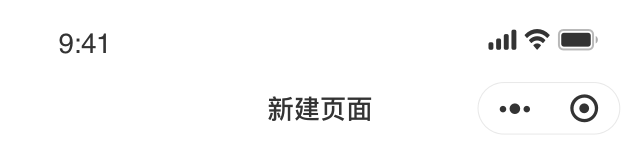
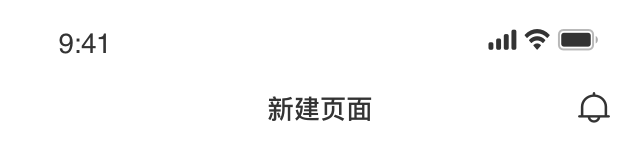
修改显示

Changed region(s): [[0.875, 0.6133, 0.9688, 0.8267], [0.7812, 0.6933, 0.8438, 0.7733]]

diff --git a/src/components/page-settings/index.vue b/src/components/page-settings/index.vue
@@ -5,7 +5,7 @@
                 <img class="img" :style="`Filter: brightness(${new_style.function_buttons_type == 'black' ? 0 : 100})`" src="@/assets/images/layout/main/main-top.png" />
             </div>
             <div class="model-head tc re mlr-12 mt-6">
-                <div v-if="['1', '2', '3'].includes(form.theme)" class="flex align-c jc-c h gap-16" :style="[{ 'justify-content': form?.indicator_location || 'center', 'padding-right': form.indicator_location == 'flex-end' || form.theme == 3 ? '95px' : '0' }, text_style]">
+                <div v-if="['1', '2', '3'].includes(form.theme)" class="flex align-c jc-c h gap-16" :style="[{ 'justify-content': form?.indicator_location || 'center' }, text_style]">
                     <template v-if="['2', '3'].includes(form.theme)">
                         <div class="logo-outer-style"><image-empty v-model="form.logo[0]" class="logo-style" error-img-style="width:2rem;height:2rem;"></image-empty></div>
                     </template>
@@ -22,13 +22,10 @@
                         ><icon v-if="form.is_arrows_show == '1'" name="arrow-right" size="12" color="0"></icon>
                     </div>
                     <template v-if="['5'].includes(form.theme)">
-                        <div class="flex-1" style="padding-right: 95px">
+                        <div class="flex-1">
                             <model-search :value="pageData.com_data" :is-page-settings="true"></model-search>
                         </div>
                     </template>
-                </div>
-                <div class="model-head-icon">
-                    <img class="function-icon" :src="url_computer(new_style.function_buttons_type == 'black' ? 'function-icon-black' : 'function-icon-white')" />
                 </div>
             </div>
         </div>
@@ -65,10 +62,7 @@ const roll_style = computed(() => {
     }
     return style;
 });
-const url_computer = (name: string) => {
-    const new_url = ref(new URL(`../../assets/images/layout/main/${name}.png`, import.meta.url).href).value;
-    return new_url;
-};
+
 const text_style = computed(() => `font-weight:${new_style.value.header_background_title_typeface}; font-size: ${new_style.value.header_background_title_size}px; color: ${new_style.value.header_background_title_color};`);
 </script>
 <style lang="scss" scoped>

diff --git a/src/views/layout/components/main/default/goods-tabs.ts b/src/views/layout/components/main/default/goods-tabs.ts
@@ -12,6 +12,7 @@ interface articleTabsList {
     order_by_type: string;
     order_by_rule: string;
     data_list: [];
+    data_auto_list: [];
 }
 interface DefaultProductList {
     content: {
@@ -75,10 +76,10 @@ const defaultProductList: DefaultProductList = {
         theme: '0',
         carousel_col: 3,
         tabs_list: [
-            { id: '1', title: '热门推荐', img: [], desc: '简介', data_type: '0', category_ids: [], brand_ids: [], data_ids: [], number: 4, order_by_type: '0', order_by_rule: '0', data_list: [] },
-            { id: '2', title: '测试一', img: [], desc: '简介', data_type: '0', category_ids: [], brand_ids: [], data_ids: [], number: 4, order_by_type: '0', order_by_rule: '0', data_list: [] },
-            { id: '3', title: '测试二', img: [], desc: '简介', data_type: '0', category_ids: [], brand_ids: [], data_ids: [], number: 4, order_by_type: '0', order_by_rule: '0', data_list: [] },
-            { id: '4', title: '测试三', img: [], desc: '简介', data_type: '0', category_ids: [], brand_ids: [], data_ids: [], number: 4, order_by_type: '0', order_by_rule: '0', data_list: [] },
+            { id: '1', title: '热门推荐', img: [], desc: '简介', data_type: '0', category_ids: [], brand_ids: [], data_ids: [], number: 4, order_by_type: '0', order_by_rule: '0', data_list: [], data_auto_list: [] },
+            { id: '2', title: '测试一', img: [], desc: '简介', data_type: '0', category_ids: [], brand_ids: [], data_ids: [], number: 4, order_by_type: '0', order_by_rule: '0', data_list: [], data_auto_list: [] },
+            { id: '3', title: '测试二', img: [], desc: '简介', data_type: '0', category_ids: [], brand_ids: [], data_ids: [], number: 4, order_by_type: '0', order_by_rule: '0', data_list: [], data_auto_list: [] },
+            { id: '4', title: '测试三', img: [], desc: '简介', data_type: '0', category_ids: [], brand_ids: [], data_ids: [], number: 4, order_by_type: '0', order_by_rule: '0', data_list: [], data_auto_list: [] },
         ],
         is_show: ['title', 'plugins_view_icon', 'price', 'sales_count', 'original_price'],
         is_shop_show: '1',

diff --git a/src/views/layout/index.vue b/src/views/layout/index.vue
@@ -187,18 +187,18 @@ const save_formmat_form_data = (data: diy_data_item, close: boolean = false, is_
     const clone_form = cloneDeep(data);
     clone_form.header.show_tabs = '1';
     clone_form.footer.show_tabs = '0';
-    // const new_array = ['goods-list', 'goods-tabs', 'article-list', 'article-tabs', 'coupon'];
+    const new_array = ['goods-list', 'goods-tabs', 'article-list', 'article-tabs', 'coupon'];
     clone_form.diy_data = clone_form.diy_data.map((item: any) => {
-        // if (new_array.includes(item.key)) {
-        //     item.com_data.content.data_ids = item.com_data.content.data_list.map((item: any) => item.data.id).join(',') || '';
-        //     item.com_data.content.data_list = [];
-        //     item.com_data.content.data_auto_list = [];
-        // } else if (item.key == 'data-magic') {
-        //     item.com_data.content.data_magic_list.map((item1: any) => {
-        //         item1.goods_ids = item.goods_list.map((item2: any) => item2.data.id).join(',') || '';
-        //         item1.goods_list = [];
-        //     });
-        // }
+        if (new_array.includes(item.key)) {
+            item.com_data.content.data_ids = item.com_data.content.data_list.map((item: any) => item.data.id).join(',') || '';
+            // item.com_data.content.data_list = [];
+            // item.com_data.content.data_auto_list = [];
+        } else if (item.key == 'data-magic') {
+            item.com_data.content.data_magic_list.map((item1: any) => {
+                item1.goods_ids = item.goods_list.map((item2: any) => item2.data.id).join(',') || '';
+                // item1.goods_list = [];
+            });
+        }
         return {
             ...item,
             show_tabs: '0',

diff --git a/src/components/page-settings/page-setting.vue b/src/components/page-settings/page-setting.vue
@@ -56,11 +56,36 @@ const default_data = {
 }
 const default_config = {
     style: {
-        theme_1: {},
-        theme_2: {},
-        theme_3: {},
-        theme_4: {},
-        theme_5: {},
+        theme_1: {
+            content: {
+                indicator_location: 'center',
+            },
+            style: {}
+        },
+        theme_2: {
+            content: {
+                indicator_location: 'flex-start',
+            },
+            style: {}
+        },
+        theme_3: {
+            content: {
+                indicator_location: 'flex-start',
+            },
+            style: {}
+        },
+        theme_4: {
+            content: {
+                indicator_location: 'flex-start',
+            },
+            style: {}
+        },
+        theme_5: {
+            content: {
+                indicator_location: 'flex-start',
+            },
+            style: {}
+        },
     },
 };
 const form = ref(props.value);

diff --git a/src/components/model-goods-tabs/index.vue b/src/components/model-goods-tabs/index.vue
@@ -32,7 +32,8 @@ watch(tabs_list.value, (val) => {
     new_data.content.order_by_type = new_data.content.tabs_list[0].order_by_type;
     new_data.content.order_by_rule = new_data.content.tabs_list[0].order_by_rule;
     new_data.content.data_list = new_data.content.tabs_list[0].data_list;
-    
+    new_data.content.data_auto_list = new_data.content.tabs_list[0].data_auto_list;
+
     tabs_list.value = new_data;
     // 公共样式
     style_container.value += common_styles_computer(new_style.common_style);

diff --git a/src/components/model-goods-list/index.vue b/src/components/model-goods-list/index.vue
@@ -255,6 +255,7 @@ const get_products = () => {
     // 获取商品列表
     ShopAPI.getShopLists(params).then((res: any) => {
         form.value.data_auto_list = res.data;
+        console.log(form.value);
         if (!isEmpty(res.data)) {
             list.value = res.data;
         } else {
